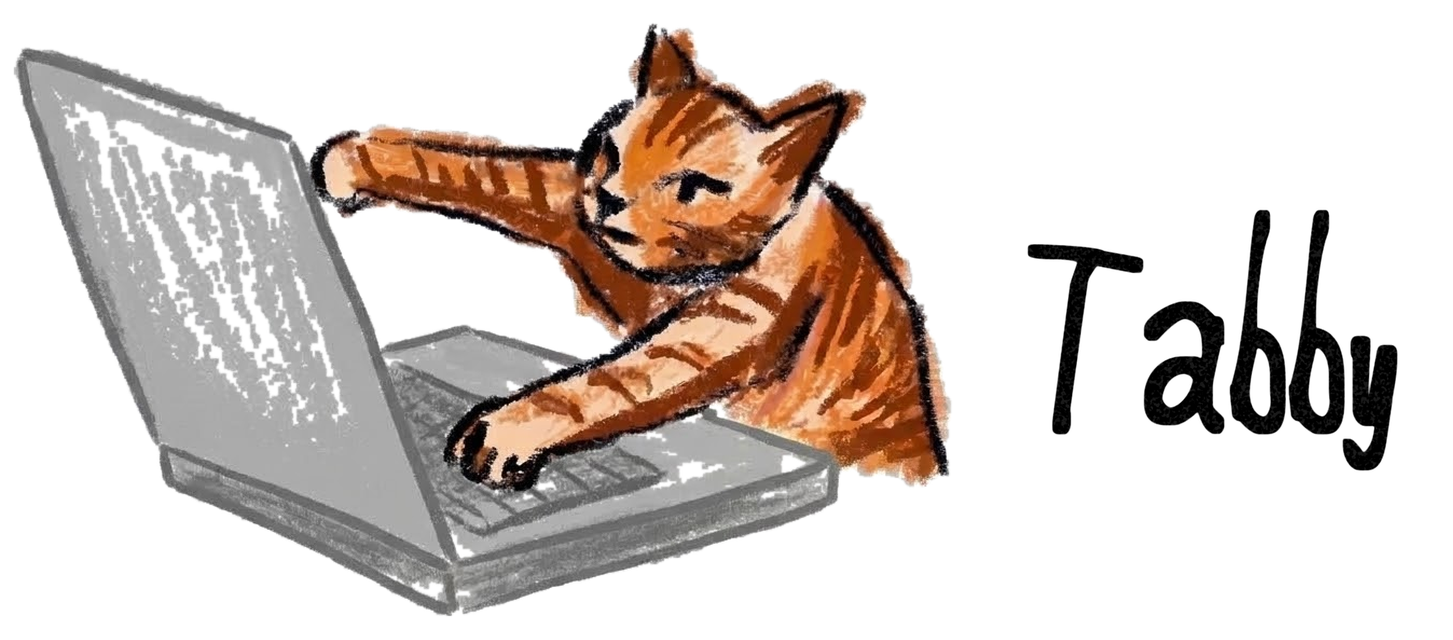
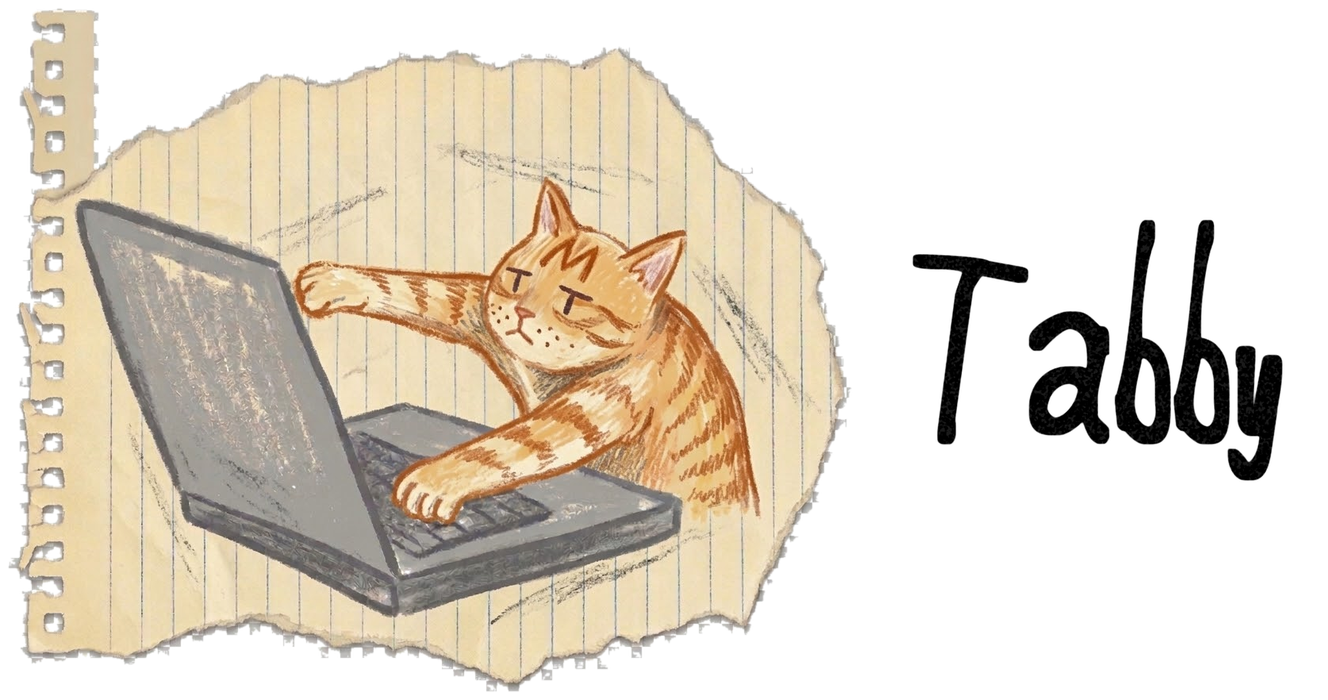
Cats: orange tabby (light) and spotted cat (dark) heroes, detective and sleeping cats in the README
Cutouts from the supplied images; hero swaps with the colour scheme.

Claude-Session: https://claude.ai/code/session_01XpQkQydNZbX3KF3ViNqc1T

diff --git a/README.md b/README.md
@@ -2,7 +2,7 @@
   <picture>
     <source media="(prefers-color-scheme: dark)" srcset="assets/hero-dark.png">
     <source media="(prefers-color-scheme: light)" srcset="assets/hero-light.png">
-    <img src="assets/hero-light.png" width="880" alt="Tabby: an orange tabby cat batting at a laptop keyboard, drawn in crayon, next to the title Tabby">
+    <img src="assets/hero-light.png" width="880" alt="Tabby: a cat batting at a laptop keyboard, drawn in crayon on torn lined paper, next to the title Tabby. An orange tabby in light mode, a black and white spotted cat in dark mode.">
   </picture>
 </p>
 
@@ -63,12 +63,16 @@ Your expected growth shapes the code. Say a hot path may move to Rust and the ag
 
 ## The rules it never lets slide
 
+<img src="assets/cat-detective.png" align="right" width="300" alt="A cream cat with a brown mask peering through a magnifying glass, drawn on torn paper">
+
 - Done means the real problem is solved and verified by running the code. Passing tests are evidence, not the goal.
 - Never edit, delete, skip or loosen an existing test to get green.
 - Find the cause before the fix. No special-casing inputs, no sleeps or retries to hide a symptom.
 - Do not silence tools (`# type: ignore`, `# noqa`, `Any`, looser config); fix the cause.
 - Smallest diff that solves it properly. No new dependency, public API change, commit or push unasked.
 - Replies, comments and docs are short: what is not obvious, no filler.
+
+<br clear="right">
 
 <p align="center"><img src="assets/crayon-divider.png" width="640" alt=""></p>
 
@@ -99,6 +103,8 @@ Delete `tabby/evals/` if you do not run evals. Any agent that reads `SKILL.md` f
 
 ## FAQ
 
+<img src="assets/cat-sleeping.png" align="right" width="260" alt="A black and white cat asleep in a curled circle, drawn in pen on a yellow lined sticky note">
+
 **Where does it keep what it learns?** In your repo, in `AGENTS.md`, under `## Tabby` (what the project is for and where it is going) and `## Python defaults` (tools and style). Plain text; edit it like anything else.
 
 **Do I have to answer questions?** No. Without anyone to ask it fills the section from the repo and marks what it guessed.
@@ -108,6 +114,8 @@ Delete `tabby/evals/` if you do not run evals. Any agent that reads `SKILL.md` f
 **What about TypeScript?** Not yet.
 
 **What does it cost in context?** One short description is always loaded. The router and a module index load when a task needs them, then only the reference files that task names.
+
+<br clear="right">
 
 ## Planned
 
